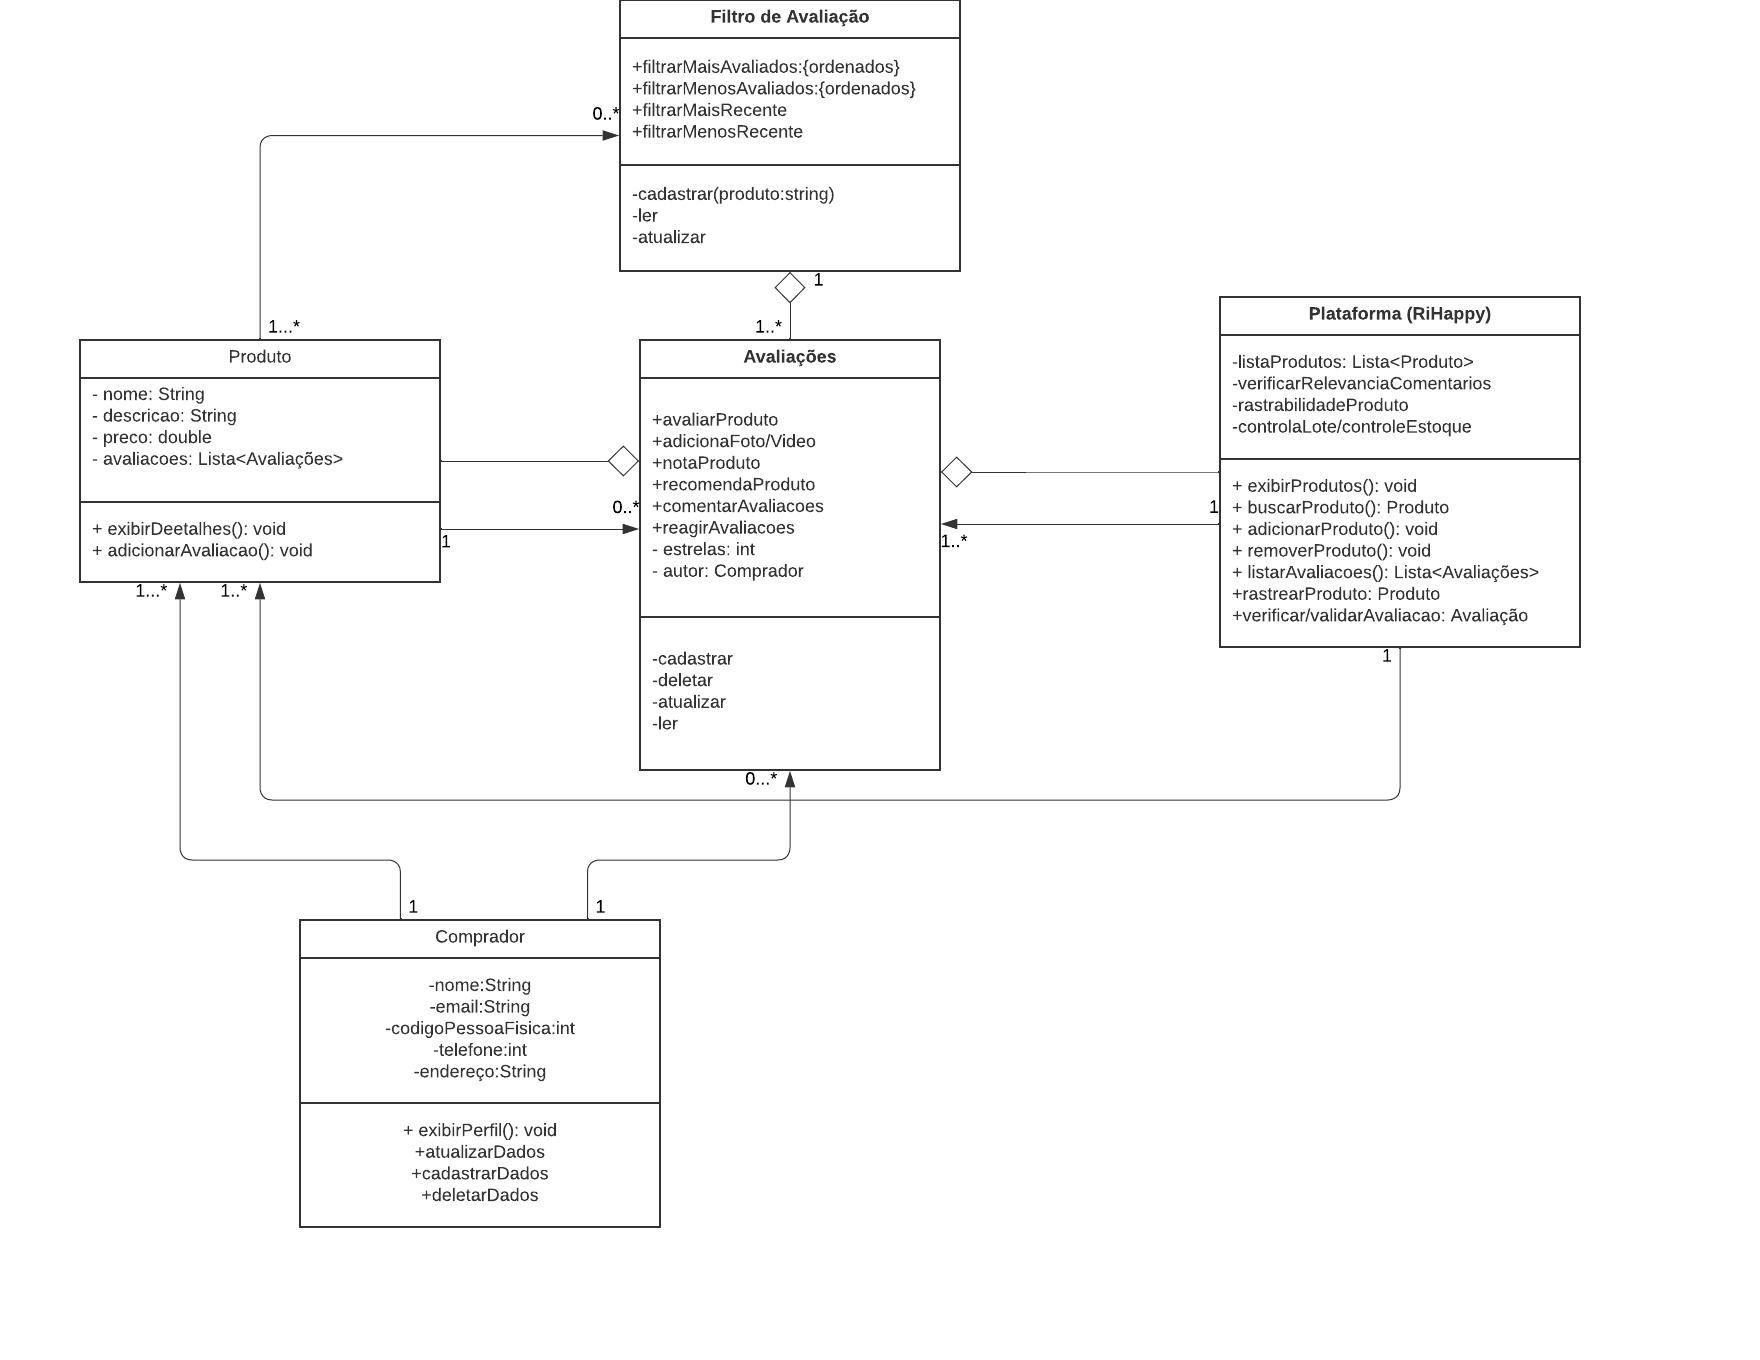
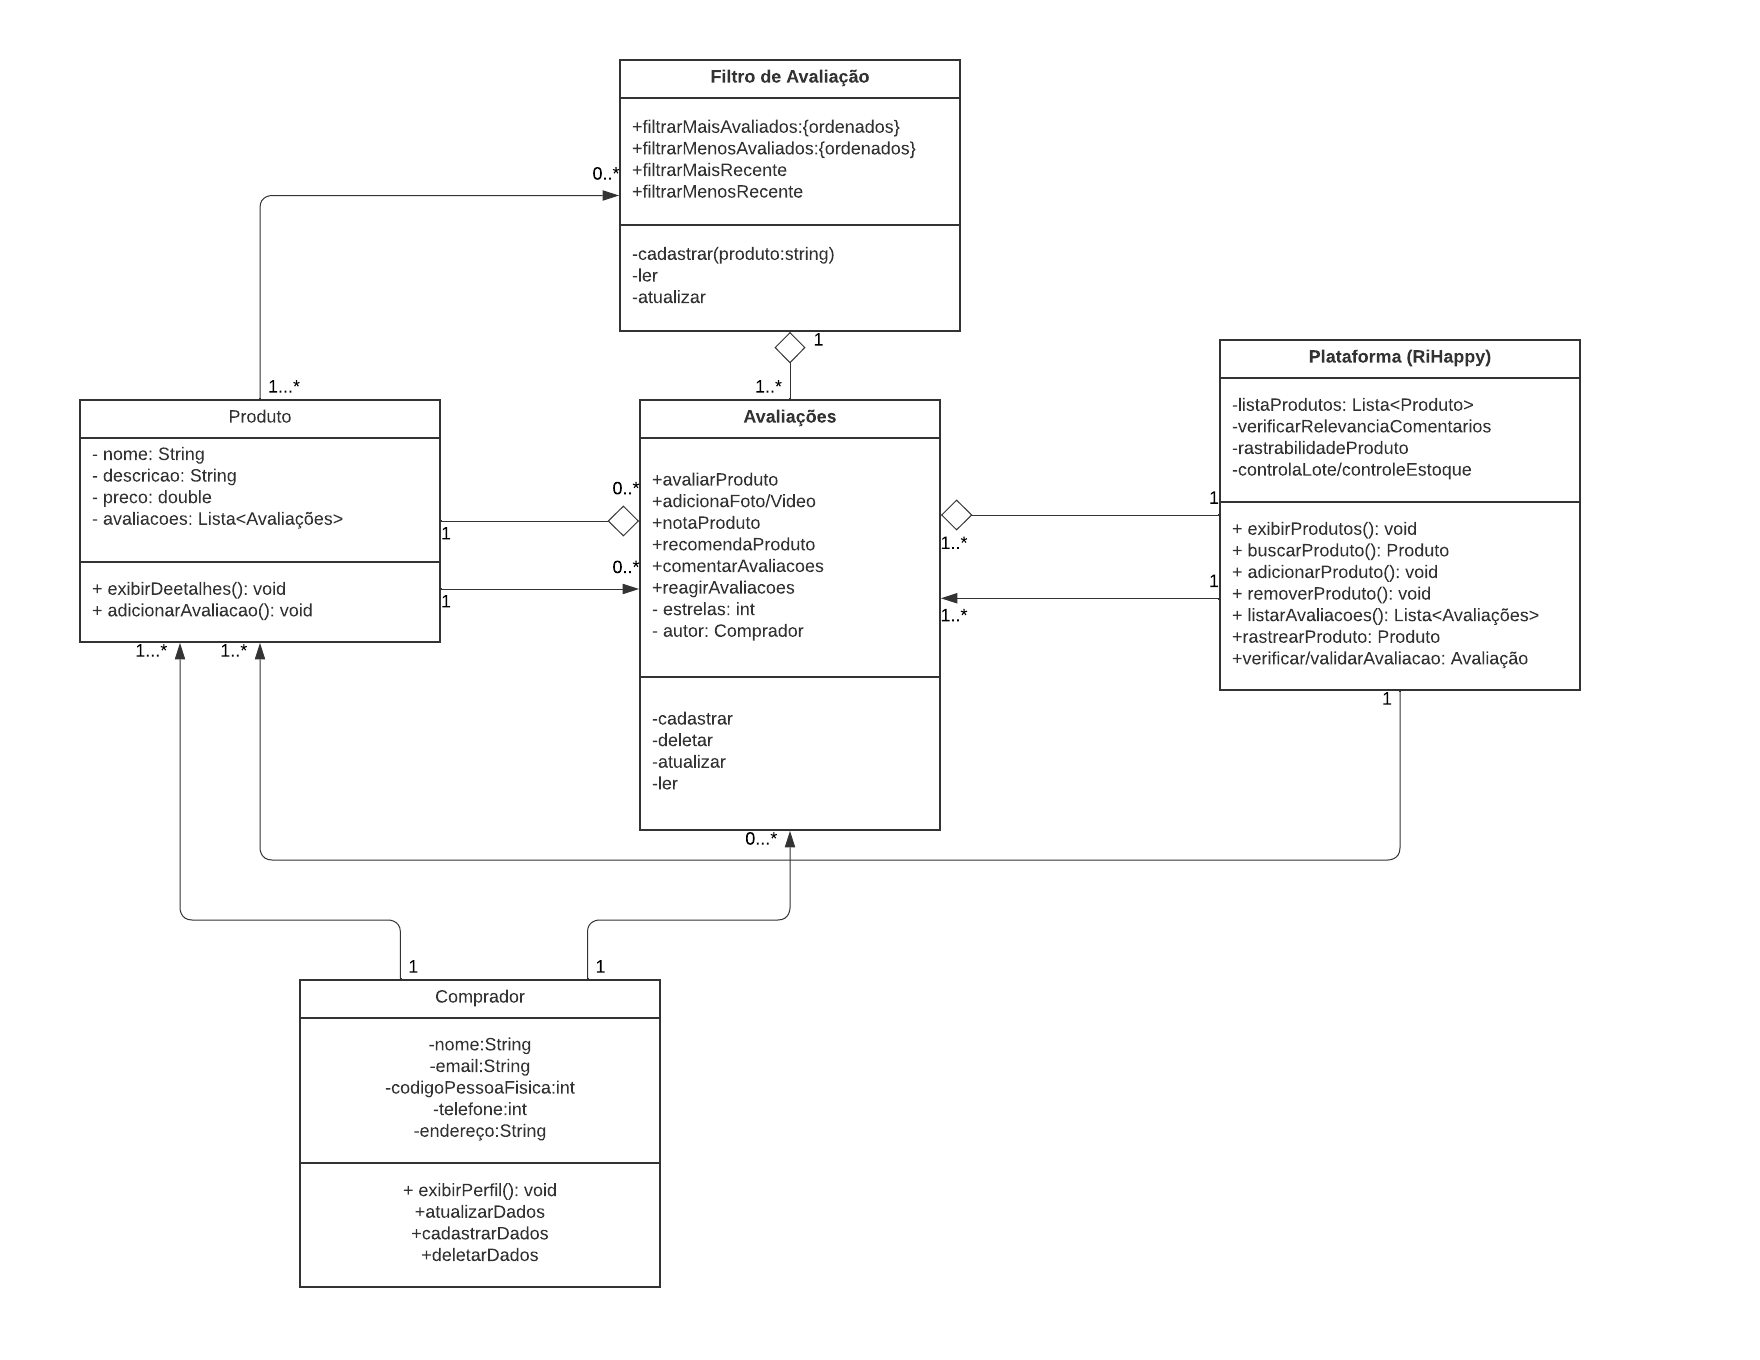
Corrige diagrama classes (#47)
* adiciona imagem

* correção do diagrama

diff --git a/docs/2.Modelagem/2.3.Estatica/2.3.1.DiagramaDeClasses.md b/docs/2.Modelagem/2.3.Estatica/2.3.1.DiagramaDeClasses.md
@@ -124,8 +124,12 @@ Em virtude de todas as discussões que vem sendo elaboradas desde a entrega ante
 
 ## Bibliografia
 
-[1] O que é um diagrama UML ? Disponível em: <https://www.lucidchart.com/pages/pt/o-que-e-diagrama-de-classe-uml>. Acesso em: 11 mai. 2023. <br/>
-[2] Unified Modeling Language (UML). Disponível em: <http://www.deinf.ufma.br/~acmo/MOO_Intro.pdf> Acesso em: 11 Mai.2023
+[1] O que é um diagrama UML ? Disponível em: [Link](https://www.lucidchart.com/pages/pt/o-que-e-diagrama-de-classe-uml). Acesso em: 11 mai. 2023. <br/>
+[2] Unified Modeling Language (UML). Disponível em: [Link](http://www.deinf.ufma.br/~acmo/MOO_Intro.pdf) Acesso em: 11 Mai.2023 </br>
+[3] Serrano, Milene. DSW-Modelagem - Agregacao Composicao. São Paulo: 25 jul, 2020. Disponível em: [Link](https://unbbr-my.sharepoint.com/personal/mileneserrano_unb_br/_layouts/15/stream.aspx?id=%2Fpersonal%2Fmileneserrano%5Funb%5Fbr%2FDocuments%2FArqDSW%20%2D%20V%C3%ADdeosOriginais%2F05e%20%2D%20VideoAula%20%2D%20DSW%2DModelagem%20%2D%20Agregacao%20Composicao%2Emp4&ga=1). Acesso em: 11 mai. 2023. </br>
+[4] Serrano, Milene. DSW-Modelagem - Classe Concreta Abstrata Sobrescrita Sobrecarga. São Paulo: 25 jul, 2020. Disponível em: [Link](https://unbbr-my.sharepoint.com/personal/mileneserrano_unb_br/_layouts/15/stream.aspx?id=%2Fpersonal%2Fmileneserrano%5Funb%5Fbr%2FDocuments%2FArqDSW%20%2D%20V%C3%ADdeosOriginais%2F05d%20%2D%20VideoAula%20%2D%20DSW%2DModelagem%20%2D%20Classe%20Concreta%20Abstrata%20Sobrescrita%20Sobrecarga%2Emp4&ga=1). Acesso em: 11 mai. 2023. </br>
+[5] Serrano, Milene. DSW-Modelagem - Dependencia Associacao: 25 jul, 2020. Disponível em: [Link](https://unbbr-my.sharepoint.com/personal/mileneserrano_unb_br/_layouts/15/stream.aspx?id=%2Fpersonal%2Fmileneserrano%5Funb%5Fbr%2FDocuments%2FArqDSW%20%2D%20V%C3%ADdeosOriginais%2F05c%20%2D%20VideoAula%20%2D%20DSW%2DModelagem%20%2D%20Dependencia%20Associacao%2Emp4&ga=1). Acesso em: 11 mai. 2023. </br>
+[6] Serrano, Milene. DSW-Modelagem - Agregacao Composicao: 25 jul, 2020. Disponível em: [Link](https://unbbr-my.sharepoint.com/personal/mileneserrano_unb_br/_layouts/15/stream.aspx?id=%2Fpersonal%2Fmileneserrano%5Funb%5Fbr%2FDocuments%2FArqDSW%20%2D%20V%C3%ADdeosOriginais%2F05e%20%2D%20VideoAula%20%2D%20DSW%2DModelagem%20%2D%20Agregacao%20Composicao%2Emp4&ga=1). Acesso em: 11 mai. 2023.</br>
 
 ## Histórico de versão
 
@@ -135,3 +139,4 @@ Em virtude de todas as discussões que vem sendo elaboradas desde a entrega ante
 | `2.0`  | 11/05/2023 | Criação da introdução, metodologia, base da conclusão e estruturação base de como se dará o artefato | Lucas Felipe   | Davi Silva, Davi Lima e Guilherme |
 | `3.0`  | 12/05/2023 | Criação da introdução, metodologia, base da conclusão e estruturação base de como se dará o artefato | Josué Teixeira | Davi Silva, Davi Lima e Guilherme |
 | `4.0`  | 12/05/2023 | Criação das explicações do porquê nosso diagrama ficou da forma que ficou no diagrama final          | Maria Abritta  | Davi Lima                                  |
+| `5.0`  | 15/05/2023 | Ajustando a multiplicidade do diagrama e incrementando bibliografia | Josué Teixeira  | Davi Lima |
